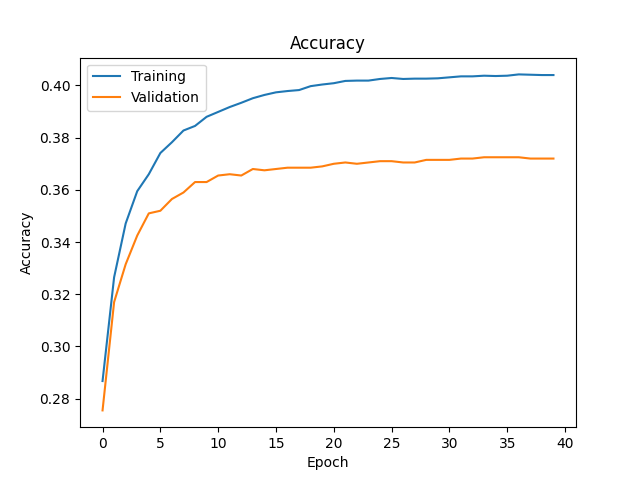
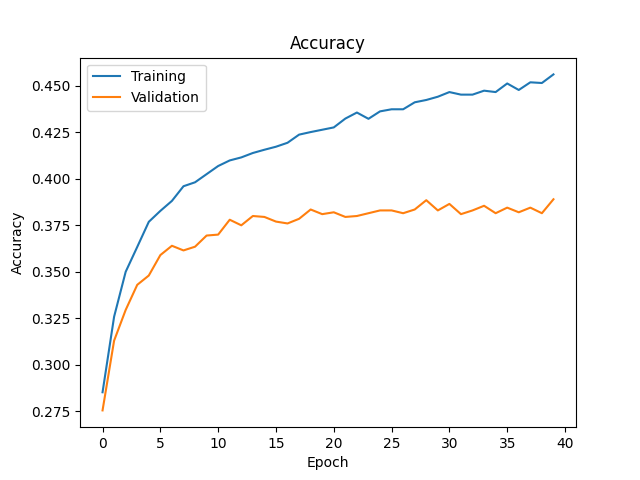
wip assignment 1

diff --git a/Assignment1/Assignment1.py b/Assignment1/Assignment1.py
@@ -5,6 +5,8 @@
 ############################################
 
 ###### Utils ######
+import tarfile
+import urllib.request
 import os
 import numpy as np
 import matplotlib.pyplot as plt
@@ -105,6 +107,19 @@ def compute_grads_num_slow(X, Y, P, W, b, lmbda, h):
 
 
 ###### Main ######
+
+
+# # Download the CIFAR-10 dataset
+# url = "https://www.cs.toronto.edu/~kriz/cifar-10-python.tar.gz"
+# filename = "cifar-10-python.tar.gz"
+# urllib.request.urlretrieve(url, filename)
+
+# # Extract the files
+# with tarfile.open(filename, 'r:gz') as tar:
+#     tar.extractall(DATASET_PATH)
+#     os.move(DATASET_PATH + 'cifar-10-batches-py', DATASET_PATH)
+
+
 # Load the data
 # data = load_batch('data_batch_1')
 # montage(data[b'data'])
@@ -216,6 +231,14 @@ def compute_cost(X, Y, W, b, lmbda):
     return np.sum(cross_entropy) / n + lmbda * np.sum(W ** 2)
 
 
+def compute_loss(X, Y, W, b):
+    """ Compute the loss function """
+    n = X.shape[1]
+    P = evaluate_classifier(X, W, b)
+    cross_entropy = -np.log(np.sum(Y * P, axis=0))
+    return np.sum(cross_entropy) / n
+
+
 # 1.6: Compute the accuracy
 
 
@@ -275,19 +298,25 @@ print("Relative error grad_b_slow:",
 # 1.8: Implement the mini-batch gradient descent algorithm
 
 
-def mini_batch_gd(X_train, Y_train, y_train, X_val, Y_val, y_val, W, b, lmbda=0., n_batch=100, n_epochs=20, eta=.001,
+def mini_batch_gd(X_train, Y_train, y_train, X_val, Y_val, y_val, W, b, lmbda=0., n_batch=100, n_epochs=40, eta=.001,
                   eta_decay=1., verbose=True):
     """ Implement the mini-batch gradient descent algorithm """
     n = X_train.shape[1]
     costs_train = []
     costs_val = []
+    losses_train = []
+    losses_val = []
     accuracies_train = []
     accuracies_val = []
     for epoch in range(n_epochs):
+        # Shuffle the data
+        indices = np.random.permutation(n)
+        X_train_shuffled = X_train[:, indices]
+        Y_train_shuffled = Y_train[:, indices]
         for j in range(0, n, n_batch):
             j_end = min(j + n_batch, n)
-            X_batch = X_train[:, j:j_end]
-            Y_batch = Y_train[:, j:j_end]
+            X_batch = X_train_shuffled[:, j:j_end]
+            Y_batch = Y_train_shuffled[:, j:j_end]
             P_batch = evaluate_classifier(X_batch, W, b)
             grad_W, grad_b = compute_gradients(
                 X_batch, Y_batch, P_batch, W, b, lmbda)
@@ -296,25 +325,28 @@ def mini_batch_gd(X_train, Y_train, y_train, X_val, Y_val, y_val, W, b, lmbda=0.
         eta *= eta_decay
         costs_train.append(compute_cost(X_train, Y_train, W, b, lmbda))
         costs_val.append(compute_cost(X_val, Y_val, W, b, lmbda))
+        losses_train.append(compute_loss(X_train, Y_train, W, b))
+        losses_val.append(compute_loss(X_val, Y_val, W, b))
         accuracies_train.append(compute_accuracy(X_train, y_train, W, b))
         accuracies_val.append(compute_accuracy(X_val, y_val, W, b))
         if verbose:
             print(f"Epoch {epoch + 1}/{n_epochs}: Cost train: {costs_train[-1]:.4f}, Cost val: {
-            costs_val[-1]:.4f}, Accuracy train: {accuracies_train[-1]:.4f}, Accuracy val: {accuracies_val[-1]:.4f}")
-    return W, b, costs_train, costs_val, accuracies_train, accuracies_val
+                costs_val[-1]:.4f}, Accuracy train: {accuracies_train[-1]:.4f}, Accuracy val: {accuracies_val[-1]:.4f}")
+    return W, b, costs_train, costs_val, losses_train, losses_val, accuracies_train, accuracies_val
 
 
 # 1.9: Train the network
 
 
 W, b = initialize_parameters(Y_train.shape[0], X_train.shape[0])
-W, b, costs_train, costs_val, accuracies_train, accuracies_val = mini_batch_gd(
-    X_train, Y_train, y_train, X_val, Y_val, y_val, W, b, lmbda=0.01, n_batch=100, n_epochs=40, eta=.001, eta_decay=0.9)
+W, b, costs_train, costs_val, losses_train, losses_val, accuracies_train, accuracies_val = mini_batch_gd(
+    X_train, Y_train, y_train, X_val, Y_val, y_val, W, b)
 print("\n1.9: Trained the network")
 
 # 1.10: Plot the cost function and accuracy
 
 os.makedirs('Result_Pics', exist_ok=True)
+# Cost function
 plt.figure()
 plt.plot(costs_train, label='Training')
 plt.plot(costs_val, label='Validation')
@@ -323,6 +355,16 @@ plt.xlabel('Epoch')
 plt.ylabel('Cost')
 plt.legend()
 plt.savefig('Result_Pics/cost_function.png')
+# Loss function
+plt.figure()
+plt.plot(losses_train, label='Training')
+plt.plot(losses_val, label='Validation')
+plt.title('Loss function')
+plt.xlabel('Epoch')
+plt.ylabel('Loss')
+plt.legend()
+plt.savefig('Result_Pics/loss_function.png')
+# Accuracy
 plt.figure()
 plt.plot(accuracies_train, label='Training')
 plt.plot(accuracies_val, label='Validation')
